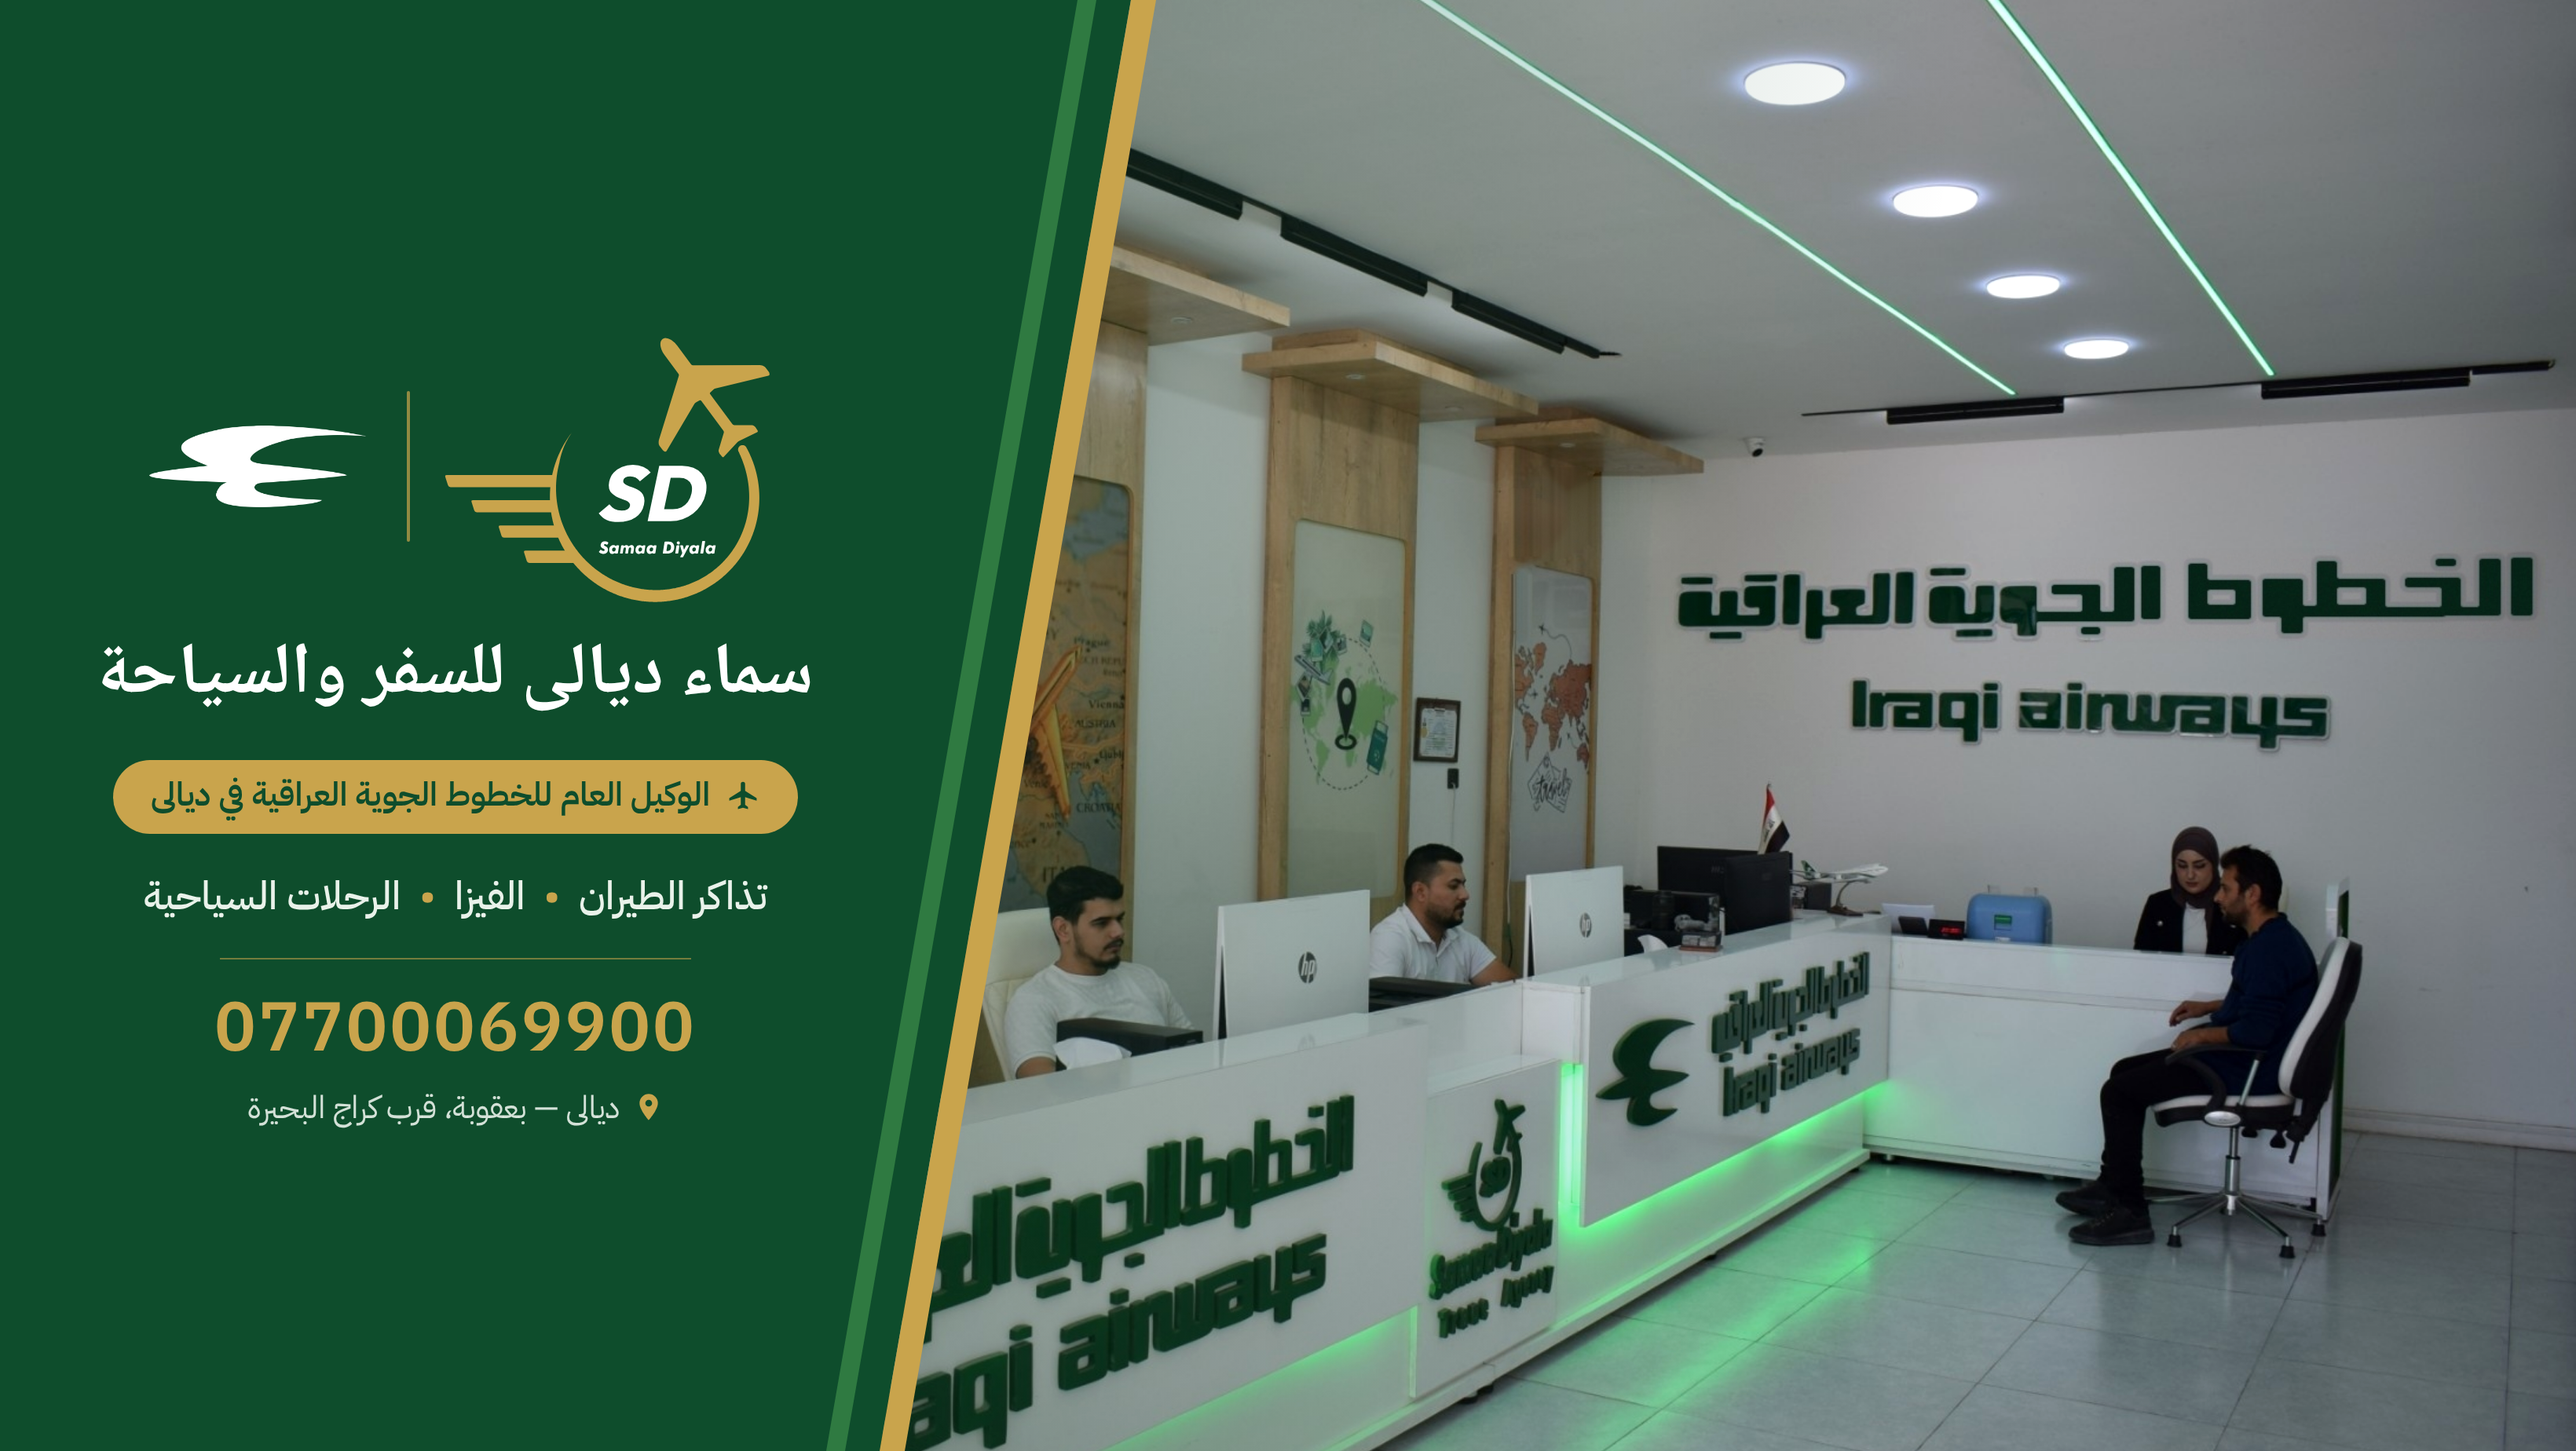
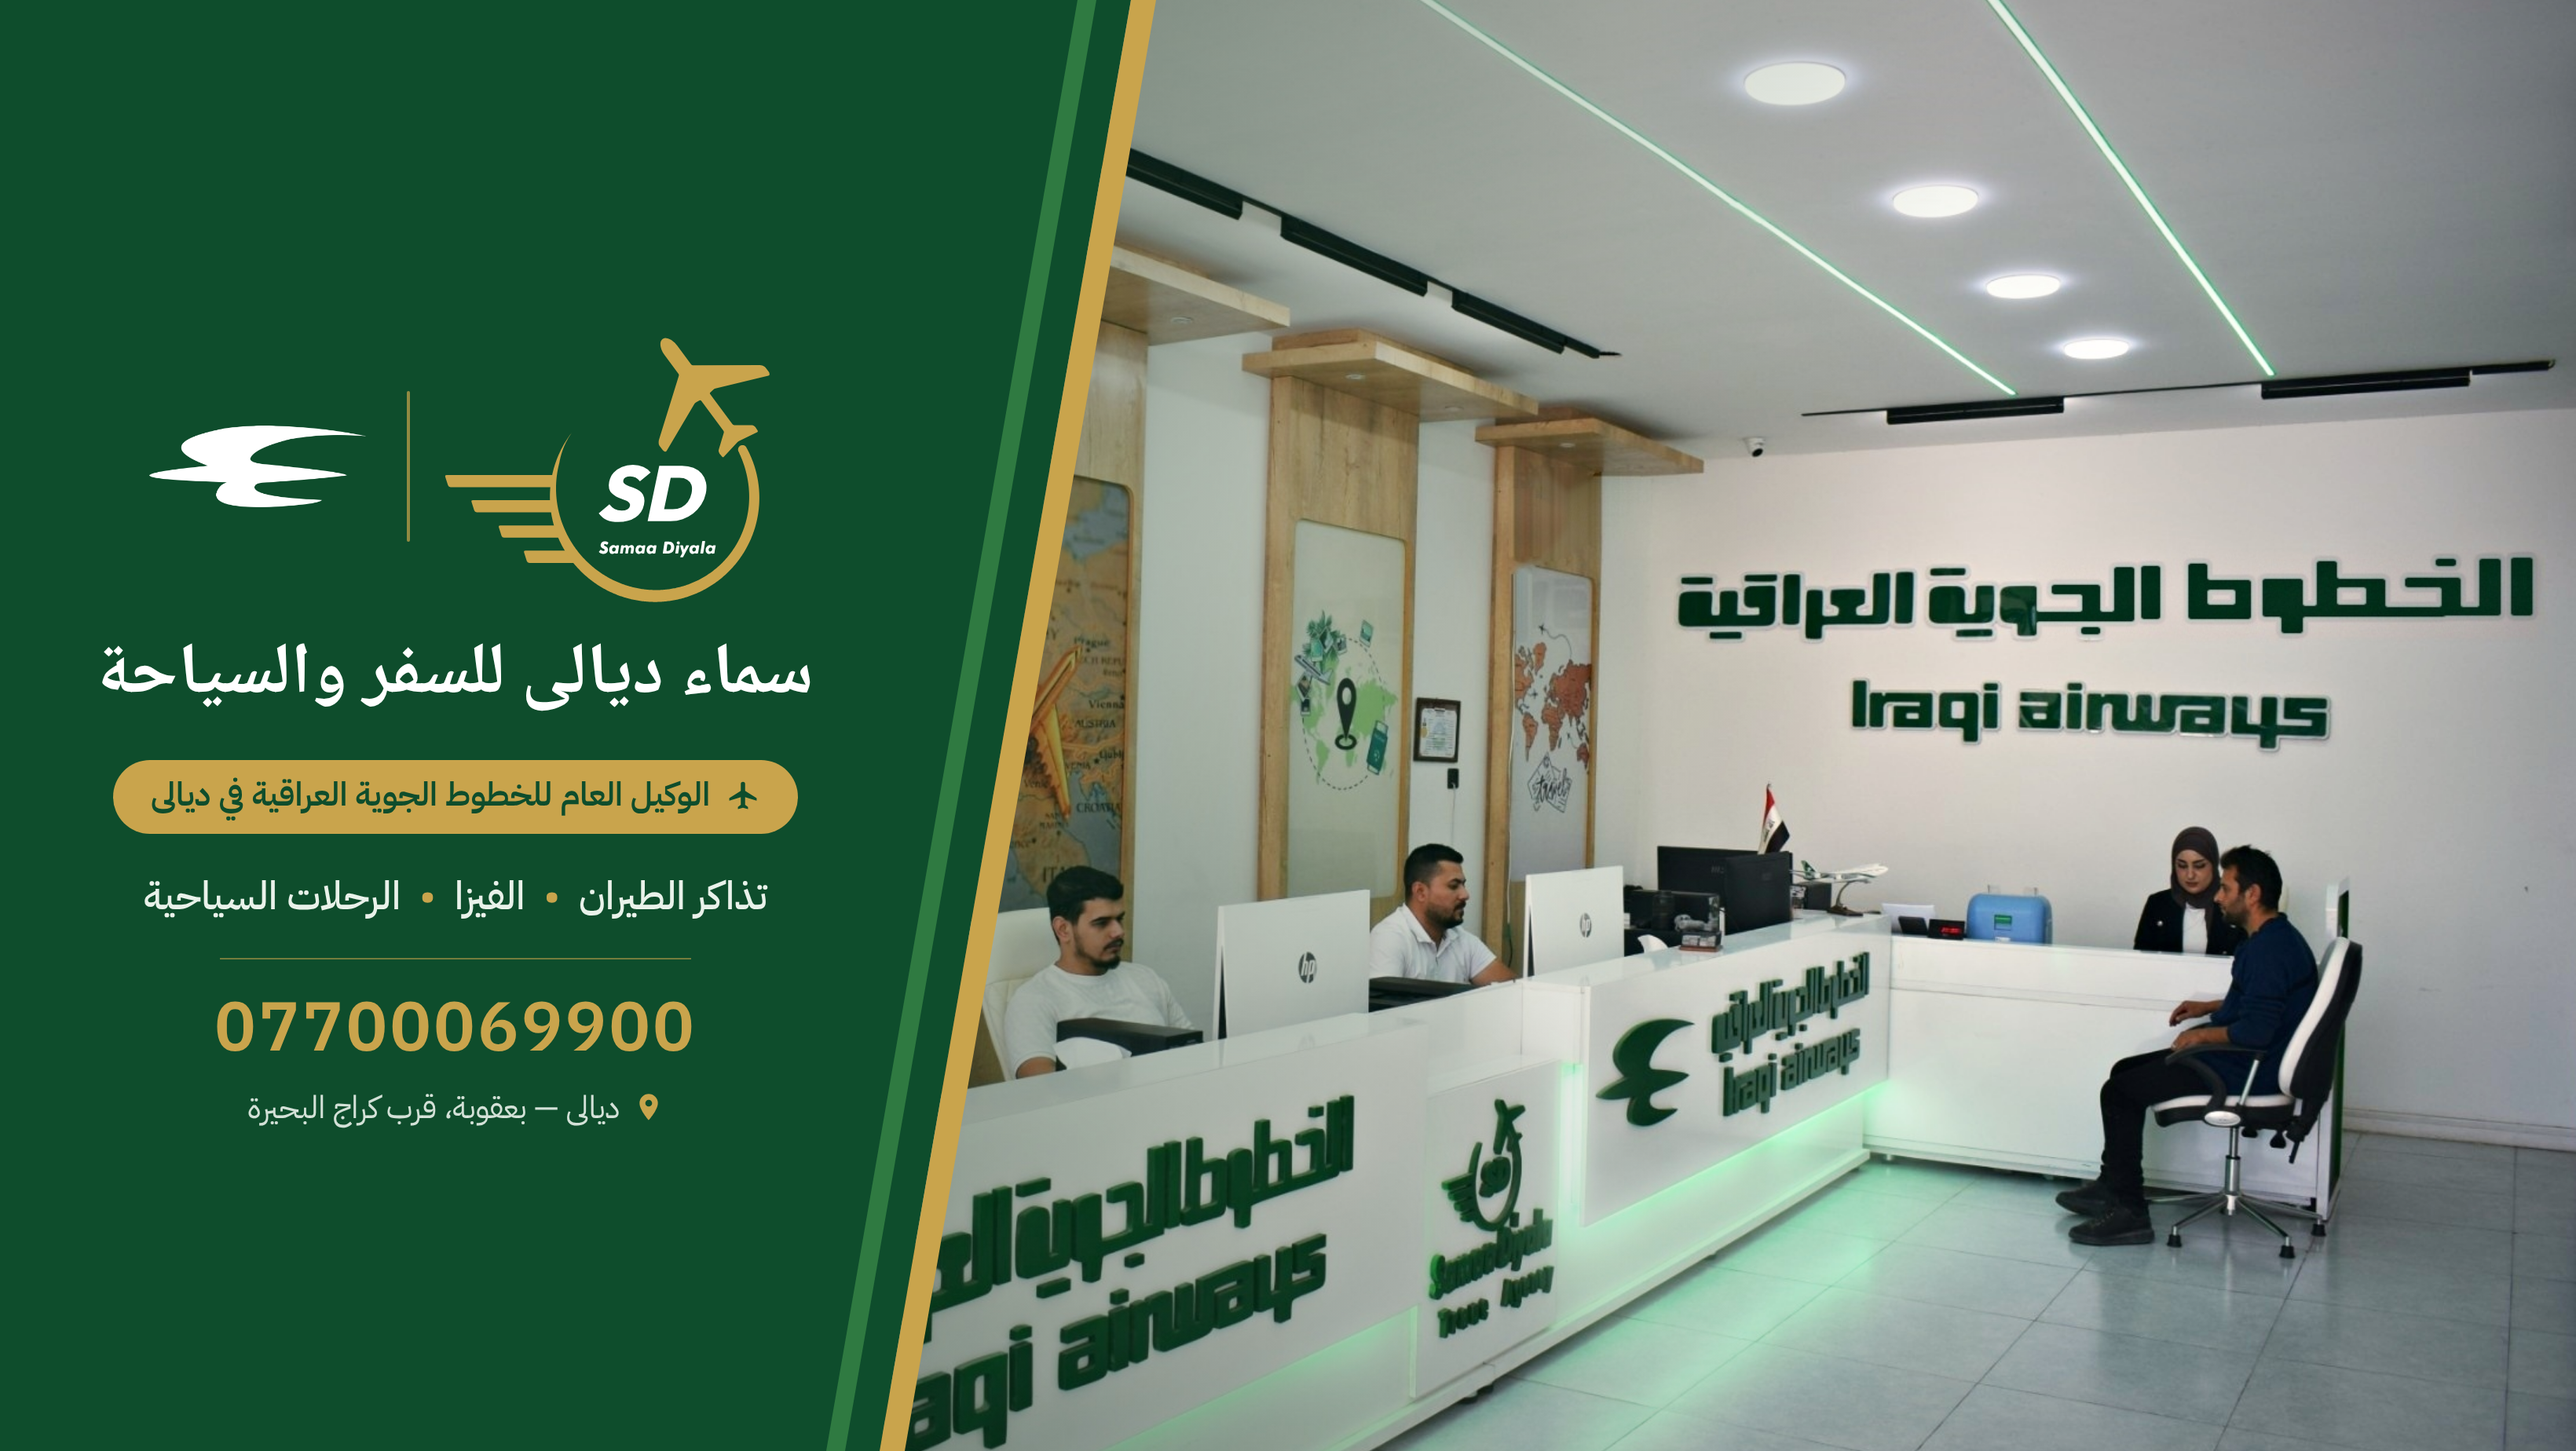
غلاف فيسبوك: إضاءة أكثر إشراقاً بطابع سينمائي هادئ للصورة
Claude-Session: https://claude.ai/code/session_01EprWPUJDuKvYHn821imCPv

diff --git a/09-التصاميم/غلاف فيسبوك/غلاف.html b/09-التصاميم/غلاف فيسبوك/غلاف.html
@@ -24,8 +24,8 @@
 
   /* photo: scaled to 0.75 (1500 x 1001), placed so the sign, staff and customer sit on the right */
   .photo{position:absolute;left:170px;top:-40px;width:1500px;height:1001px;
-         background:url("../../08-الصور/المكتب - الواجهة (معدّلة بلا مروحة).jpg") 0 0/100% 100% no-repeat;
-         filter:contrast(1.04) saturate(1.06) brightness(1.02)}
+         background:url("../../08-الصور/المكتب - الواجهة (نهائية بإضاءة سينمائية).jpg") 0 0/100% 100% no-repeat;
+}
   /* soft green fade from the panel into the photo */
   .fade{position:absolute;inset:0;
         background:linear-gradient(100deg, rgba(14,77,44,.55) 0, rgba(14,77,44,.18) 52%, rgba(14,77,44,0) 70%)}

diff --git a/07-أدوات/صورة-المكتب/cinematic_grade.py b/07-أدوات/صورة-المكتب/cinematic_grade.py
@@ -1,0 +1,34 @@
+# Cinematic, clean grade for the office photo (see CLAUDE.md): brighter mids with whites kept,
+# firm contrast, green-tinted shadows and warm highlights, warm key light on the counter,
+# glow on the ceiling lights and the green LED strips, soft vignette.
+import cv2,numpy as np,sys
+src,out=sys.argv[1],sys.argv[2]
+G=float(sys.argv[3]) if len(sys.argv)>3 else 0.70     # gamma (<1 brightens mids); used: 0.70
+C=float(sys.argv[4]) if len(sys.argv)>4 else 0.42     # S-curve strength; used: 0.42
+im=cv2.imread(src).astype(np.float32)/255.0
+H,W=im.shape[:2]
+ref=np.median(im[560:640,1300:1500].reshape(-1,3),0)
+im=np.clip(im*(ref.mean()/ref),0,1)                    # neutral walls
+im=im**G                                               # brighten mids, whites stay put
+s=1/(1+np.exp(-(im-0.5)*8)); s=(s-s.min())/(s.max()-s.min())
+im=im*(1-C)+s*C                                        # contrast
+L=im.mean(2,keepdims=True)
+sh=np.clip(1-L/0.5,0,1); hl=np.clip((L-0.6)/0.4,0,1)
+im=im+sh*np.array([0.010,0.022,-0.004],np.float32)*1.0   # BGR: green-teal shadows
+im=im*(1+hl*np.array([-0.035,0.0,0.03],np.float32))      # warm highlights
+yy,xx=np.mgrid[0:H,0:W].astype(np.float32)
+key=np.exp(-(((xx-1480)/600)**2+((yy-740)/420)**2))[...,None]
+im=im*(1+0.10*key)*(1+key*np.array([-0.035,0.0,0.03],np.float32))
+# glow
+mx=im.max(2,keepdims=True)
+br=np.clip((mx-0.86)/0.14,0,1)*im
+gr=((im[...,1:2]-im[...,2:3])>0.08)*np.clip((im[...,1:2]-0.45)/0.4,0,1)*im   # green LED light
+glow=cv2.GaussianBlur(br,(0,0),10)*0.8+cv2.GaussianBlur(br,(0,0),35)*0.6+cv2.GaussianBlur(gr,(0,0),22)*0.9
+im=1-(1-np.clip(im,0,1))*(1-np.clip(glow,0,1)*0.6)
+# vignette
+v=1-0.20*(((xx-1350)/1200)**2+((yy-640)/800)**2)
+im*=np.clip(v,0.74,1)[...,None]
+im=im.astype(np.float32)
+blur=cv2.GaussianBlur(im,(0,0),20); im=im+0.15*(im-blur)
+hsv=cv2.cvtColor(np.clip(im,0,1),cv2.COLOR_BGR2HSV); hsv[...,1]=np.clip(hsv[...,1]*1.08,0,1); im=cv2.cvtColor(hsv,cv2.COLOR_HSV2BGR)
+cv2.imwrite(out,np.clip(im*255,0,255).astype(np.uint8),[cv2.IMWRITE_JPEG_QUALITY,96])

diff --git a/CLAUDE.md b/CLAUDE.md
@@ -52,7 +52,7 @@
 - الألوان النهائية للشعار ما زالت بانتظار اعتماد المدير.
 
 ## ملفات العمل
-- `08-الصور/`: صور حقيقية من المكتب. "المكتب - الواجهة (معدّلة بلا مروحة)" هي المعتمدة: أُزيل فيها انعكاس لافتة العراقية بإعادة رسم الحروف (`07-أدوات/صورة-المكتب/redraw.py`)، ثم أُزيلت المروحة اليمنى (`remove_fan.py`).
+- `08-الصور/`: صور حقيقية من المكتب. المعتمدة "المكتب - الواجهة (نهائية بإضاءة سينمائية)" (تدرّج لوني بـ `cinematic_grade.py`)، وقبلها "معدّلة بلا مروحة": أُزيل فيها انعكاس لافتة العراقية بإعادة رسم الحروف (`07-أدوات/صورة-المكتب/redraw.py`)، ثم أُزيلت المروحة اليمنى (`remove_fan.py`).
 - بيئة "sama-diyala" تسمح أيضاً بـ en.wikipedia.org وcommons.wikimedia.org وupload.wikimedia.org. ويكيميديا تحظر الملفات الأصلية أحياناً بسبب كثرة الطلبات، والصور المصغّرة بمقاس 1920 تعمل.
 - `09-التصاميم/`: كل تصميم في مجلده، مصدره HTML ويُصدَّر PNG عبر Chromium. الخطوط في `07-أدوات/خطوط/`.
 - غلاف فيسبوك: 1640×924، والنص في الشريط الأوسط (y بين 150 و774) لأن الحاسوب يقص الأعلى والأسفل.
